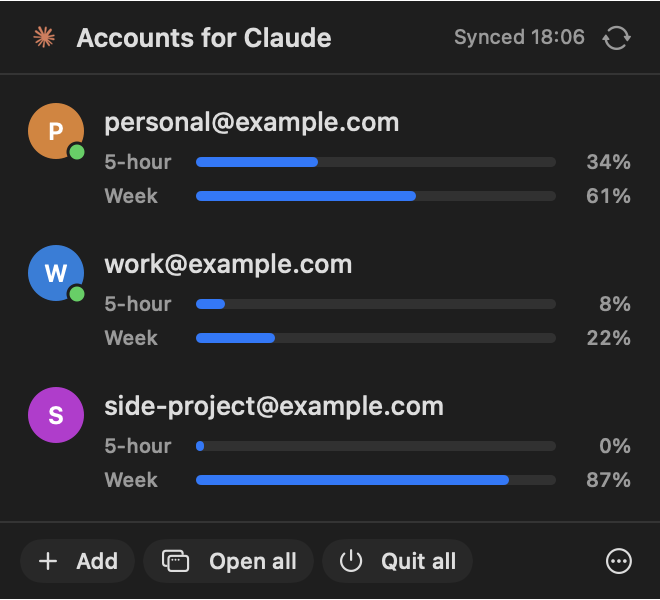
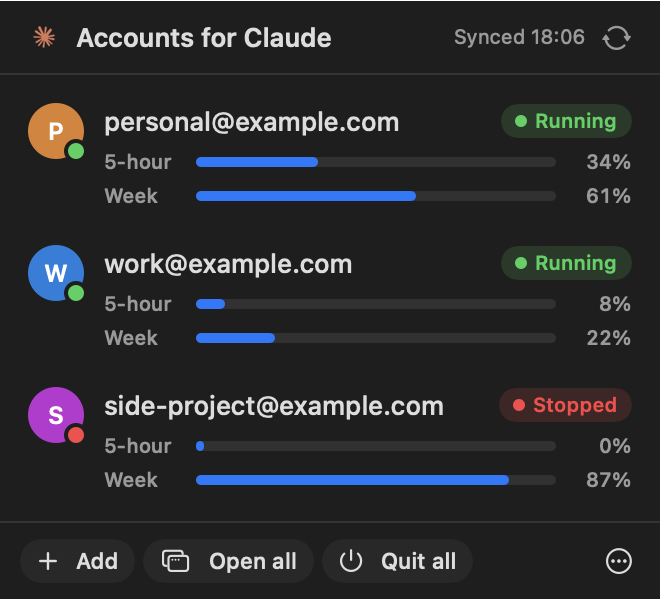
Show each account's running state as a green or red status
The only cue was a small green dot on the avatar of running accounts, so a
closed account had no marker at all and the difference was easy to miss.
Every card now has a "Running" (green) or "Stopped" (red) pill next to the
email, and the avatar dot is always shown in the same colour. README
screenshot updated.

diff --git a/Sources/main.swift b/Sources/main.swift
@@ -438,6 +438,9 @@ struct AccountRow: View {
                     if hovering && profile.isRunning && !profile.isMain && !profile.viaMainApp && !disabled {
                         IconButton(symbol: "arrow.clockwise", help: "Restart this account") { act.restart(profile.name) }
                     }
+                    StatusPill(running: profile.isRunning,
+                               help: profile.viaMainApp ? "Open in the default Claude app"
+                                   : profile.isRunning ? "Its Claude window is open" : "Click the card to open it")
                 }
                 .frame(height: 18)
                 details
@@ -551,14 +554,38 @@ struct Avatar: View {
                 .overlay(Text(text.first.map { String($0).uppercased() } ?? "?")
                     .font(.system(size: 12, weight: .semibold))
                     .foregroundStyle(.white))
-            if running {
-                Circle().fill(Color.green)
-                    .frame(width: 9, height: 9)
-                    .overlay(Circle().stroke(Color(nsColor: .windowBackgroundColor), lineWidth: 1.5))
-                    .offset(x: 1, y: 1)
-            }
+            // Always shown, so a closed account reads as "stopped", not as "unknown".
+            Circle().fill(statusColor(running: running))
+                .frame(width: 10, height: 10)
+                .overlay(Circle().stroke(Color(nsColor: .windowBackgroundColor), lineWidth: 2))
+                .offset(x: 1, y: 1)
         }
-        .help(running ? "Running" : "Not running")
+        .help(running ? "Running" : "Stopped")
+    }
+}
+
+/// Green for a Claude window that is open, red for one that is not.
+func statusColor(running: Bool) -> Color {
+    Color(nsColor: running ? .systemGreen : .systemRed)
+}
+
+/// "● Running" / "● Stopped" at the right of a card's title row.
+struct StatusPill: View {
+    let running: Bool
+    var help = ""
+
+    var body: some View {
+        let color = statusColor(running: running)
+        HStack(spacing: 4) {
+            Circle().fill(color).frame(width: 6, height: 6)
+            Text(running ? "Running" : "Stopped")
+        }
+        .font(.system(size: 10, weight: .semibold))
+        .foregroundStyle(color)
+        .padding(.horizontal, 7).padding(.vertical, 2)
+        .background(Capsule().fill(color.opacity(0.15)))
+        .fixedSize()
+        .help(help)
     }
 }
 
